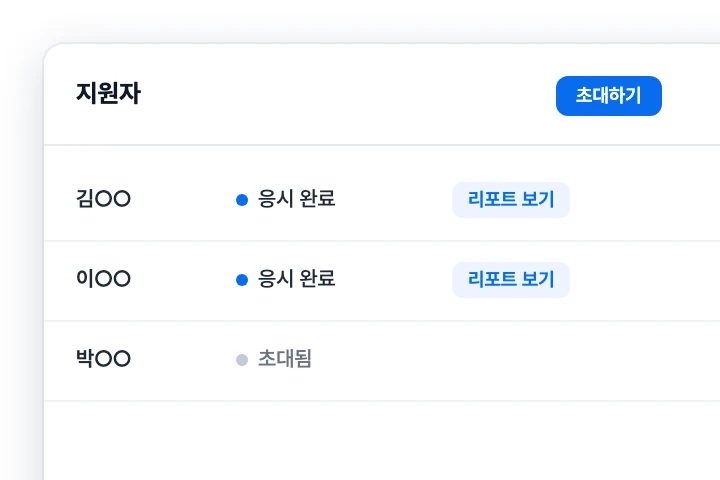
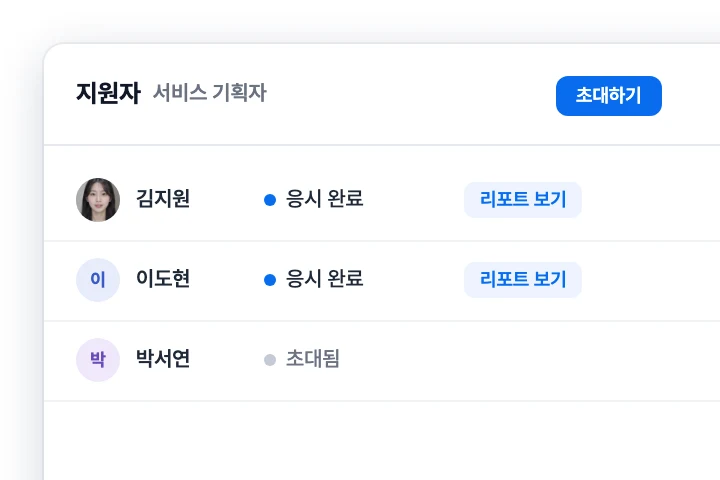
AI 역량검사 진행 방식 도식에 모션, 리포트 04 카드 동시 등장, STEP 03 이미지 교체, 가명·얼굴 채움
- MotionDiagram(옛 ReportDiagram)으로 모션 도식 7장 공용: AI 역량검사 과정 평가(단계가 1→4 차례로 켜지고 진행선·재생 막대가 함께),
  AI 인터뷰(질문·답 말풍선이 차례로, 해당 코드 줄 강조), 평가와 리포트(추천 원 그래프 → 점수 막대 → 근거). 화면에 들어오기 전 멈춤 규칙이 덮이던 순서도 바로잡음
- 리포트 04 강점·약점: 두 카드가 동시에 떠오르고 안쪽 줄이 함께 채워진 뒤 아이콘이 움직임
- 과제 만들기 STEP 03 '확인 후 게시': 채점 기준 화면 → 과제 확인·게시·공개 링크·메일 초대 화면(assessment-step-review 삭제)
- 얼굴 확인: 머리 위 여백 + 사람 모양으로 오려 회색 단색 바탕, 이력서·지원자 목록: ○○ 대신 가명(김지원·이도현·박서연, 누리커머스)과 얼굴(사진·이름 첫 글자)

diff --git a/components/motionDiagrams.ts b/components/motionDiagrams.ts
@@ -1,0 +1,14 @@
+// 모션 도식 7장(2026-11-26) — AI 면접 리포트 4종(인터뷰 요약·종합평가·역량평가·강점·약점)과 AI 역량검사 진행 방식 3장(과정 평가·AI 인터뷰·평가와 리포트).
+// 원본은 _docs/홈페이지 개편/도식/벡터_만들기_make-svg.mjs와 같은 모양이고, 움직일 요소에만 표시를 붙였다.
+// 다시 뽑기: _docs/홈페이지 개편/도식/모션도식_만들기_make-motion.py. 모션 스타일은 app/landing.css(.rd), 시작·멈춤은 components/MotionDiagram.tsx.
+export const MOTION_SVG = {
+  interview: "<svg xmlns=\"http://www.w3.org/2000/svg\" viewBox=\"0 0 1080 570\" aria-hidden=\"true\" focusable=\"false\">\n<rect x=\"0\" y=\"0\" width=\"1080\" height=\"570\" rx=\"24\" fill=\"#F4F8FE\"/>\n<g>\n<rect x=\"42\" y=\"126\" width=\"490\" height=\"320\" rx=\"28\" fill=\"#1E283F\"/>\n<circle cx=\"432\" cy=\"161\" r=\"6\" fill=\"#3A6FFF\"/>\n<text x=\"446\" y=\"167\" font-family=\"Pretendard-ExtraBold, Pretendard\" font-weight=\"800\" font-size=\"18\" letter-spacing=\"-0.36\" fill=\"#3A6FFF\">REC</text>\n<circle cx=\"286\" cy=\"286\" r=\"58\" fill=\"#FFFFFF\"/>\n<path d=\"M269,256 L269,316 L320,286 Z\" fill=\"#3A6FFF\"/>\n<rect x=\"78\" y=\"400\" width=\"150\" height=\"16\" rx=\"8\" fill=\"#B5BCC1\"/>\n</g>\n<g>\n<rect x=\"549\" y=\"127\" width=\"488\" height=\"318\" rx=\"27\" fill=\"#FFFFFF\" stroke=\"#E6E6E6\" stroke-width=\"2\"/>\n<text x=\"586\" y=\"222\" font-family=\"Pretendard-Bold, Pretendard\" font-weight=\"700\" font-size=\"22\" letter-spacing=\"-0.44\" fill=\"#3A6FFF\">인터뷰 요약</text>\n<rect class=\"rd-w\" style=\"animation-delay:0.0s\" x=\"586\" y=\"252\" width=\"412\" height=\"20\" rx=\"10\" fill=\"#E8E8E8\"/>\n<rect class=\"rd-w\" style=\"animation-delay:0.45s\" x=\"586\" y=\"292\" width=\"412\" height=\"20\" rx=\"10\" fill=\"#E8E8E8\"/>\n<rect class=\"rd-w\" style=\"animation-delay:0.9s\" x=\"586\" y=\"332\" width=\"412\" height=\"20\" rx=\"10\" fill=\"#E8E8E8\"/>\n<rect class=\"rd-w\" style=\"animation-delay:1.35s\" x=\"586\" y=\"372\" width=\"412\" height=\"20\" rx=\"10\" fill=\"#E8E8E8\"/>\n</g>\n</svg>",
+  grade: "<svg xmlns=\"http://www.w3.org/2000/svg\" viewBox=\"0 0 1080 570\" aria-hidden=\"true\" focusable=\"false\">\n<rect x=\"0\" y=\"0\" width=\"1080\" height=\"570\" rx=\"24\" fill=\"#F4F8FE\"/>\n<g>\n<circle cx=\"272\" cy=\"286\" r=\"135\" fill=\"none\" stroke=\"#E5EAF4\" stroke-width=\"38\"/>\n<circle cx=\"272\" cy=\"286\" r=\"154\" fill=\"none\" stroke=\"#CED3DC\" stroke-width=\"2\"/>\n<circle cx=\"272\" cy=\"286\" r=\"116\" fill=\"none\" stroke=\"#CED3DC\" stroke-width=\"2\"/>\n<path class=\"rd-arc\" pathLength=\"100\" d=\"M272,151 A135,135 0 1 1 162.78,206.65\" fill=\"none\" stroke=\"#3A6FFF\" stroke-width=\"38\"/>\n<text x=\"272\" y=\"297\" font-family=\"Pretendard-ExtraBold, Pretendard\" font-weight=\"800\" font-size=\"72\" letter-spacing=\"-1.44\" fill=\"#3A6FFF\" text-anchor=\"middle\">양호</text>\n<text x=\"272\" y=\"337\" font-family=\"Pretendard-SemiBold, Pretendard\" font-weight=\"600\" font-size=\"24\" letter-spacing=\"-0.48\" fill=\"#7A7C7F\" text-anchor=\"middle\">종합등급</text>\n</g>\n<g>\n<rect x=\"549\" y=\"127\" width=\"488\" height=\"318\" rx=\"27\" fill=\"#FFFFFF\" stroke=\"#E6E6E6\" stroke-width=\"2\"/>\n<text x=\"586\" y=\"184\" font-family=\"Pretendard-Bold, Pretendard\" font-weight=\"700\" font-size=\"20\" letter-spacing=\"-0.4\" fill=\"#7A7C7F\">직무 접합도</text>\n<rect x=\"587\" y=\"207\" width=\"410\" height=\"18\" rx=\"9\" fill=\"#E8E8E8\" stroke=\"#D1D1D1\" stroke-width=\"2\"/>\n<rect class=\"rd-bar\" style=\"animation-delay:0.35s\" x=\"587\" y=\"207\" width=\"336\" height=\"18\" rx=\"9\" fill=\"#3A6FFF\" stroke=\"#2F62F0\" stroke-width=\"2\"/>\n<text x=\"586\" y=\"274\" font-family=\"Pretendard-Bold, Pretendard\" font-weight=\"700\" font-size=\"20\" letter-spacing=\"-0.4\" fill=\"#7A7C7F\">안정성</text>\n<rect x=\"587\" y=\"297\" width=\"410\" height=\"18\" rx=\"9\" fill=\"#E8E8E8\" stroke=\"#D1D1D1\" stroke-width=\"2\"/>\n<rect class=\"rd-bar\" style=\"animation-delay:0.60s\" x=\"587\" y=\"297\" width=\"266\" height=\"18\" rx=\"9\" fill=\"#3A6FFF\" stroke=\"#2F62F0\" stroke-width=\"2\"/>\n<text x=\"586\" y=\"364\" font-family=\"Pretendard-Bold, Pretendard\" font-weight=\"700\" font-size=\"20\" letter-spacing=\"-0.4\" fill=\"#7A7C7F\">성장 가능성</text>\n<rect x=\"587\" y=\"387\" width=\"410\" height=\"18\" rx=\"9\" fill=\"#E8E8E8\" stroke=\"#D1D1D1\" stroke-width=\"2\"/>\n<rect class=\"rd-bar\" style=\"animation-delay:0.85s\" x=\"587\" y=\"387\" width=\"296\" height=\"18\" rx=\"9\" fill=\"#3A6FFF\" stroke=\"#2F62F0\" stroke-width=\"2\"/>\n</g>\n</svg>",
+  competency: "<svg xmlns=\"http://www.w3.org/2000/svg\" viewBox=\"0 0 1080 570\" aria-hidden=\"true\" focusable=\"false\">\n<rect x=\"0\" y=\"0\" width=\"1080\" height=\"570\" rx=\"24\" fill=\"#F4F8FE\"/>\n<g>\n<polygon points=\"527,105 685.48,196.5 685.48,379.5 527,471 368.52,379.5 368.52,196.5\" fill=\"#FFFFFF\" stroke=\"#E6E6E6\" stroke-width=\"2\" stroke-linejoin=\"round\"/>\n<polygon points=\"527,143.43 652.2,215.71 652.2,360.29 527,432.57 401.8,360.29 401.8,215.71\" fill=\"#ECF2FF\"/>\n<polygon points=\"527,166 632.66,227 632.66,349 527,410 421.34,349 421.34,227\" fill=\"none\" stroke=\"#E6E6E6\" stroke-width=\"2\" stroke-linejoin=\"round\"/>\n<polygon points=\"527,227 579.83,257.5 579.83,318.5 527,349 474.17,318.5 474.17,257.5\" fill=\"none\" stroke=\"#E6E6E6\" stroke-width=\"2\" stroke-linejoin=\"round\"/>\n<line x1=\"527\" y1=\"288\" x2=\"527\" y2=\"105\" stroke=\"#E6E6E6\" stroke-width=\"2\"/>\n<line x1=\"527\" y1=\"288\" x2=\"685.48\" y2=\"196.5\" stroke=\"#E6E6E6\" stroke-width=\"2\"/>\n<line x1=\"527\" y1=\"288\" x2=\"685.48\" y2=\"379.5\" stroke=\"#E6E6E6\" stroke-width=\"2\"/>\n<line x1=\"527\" y1=\"288\" x2=\"527\" y2=\"471\" stroke=\"#E6E6E6\" stroke-width=\"2\"/>\n<line x1=\"527\" y1=\"288\" x2=\"368.52\" y2=\"379.5\" stroke=\"#E6E6E6\" stroke-width=\"2\"/>\n<line x1=\"527\" y1=\"288\" x2=\"368.52\" y2=\"196.5\" stroke=\"#E6E6E6\" stroke-width=\"2\"/>\n<polygon points=\"527,143.43 652.2,215.71 652.2,360.29 527,432.57 401.8,360.29 401.8,215.71\" fill=\"none\" stroke=\"#C0D5FF\" stroke-width=\"5\" stroke-linecap=\"round\" stroke-linejoin=\"round\" stroke-dasharray=\"0 10\"/>\n<polygon points=\"527,203.82 620.5,234.02 598.32,329.17 527,421.59 449.34,332.84 422.4,227.61\" fill=\"#3A6FFF\" fill-opacity=\"0.55\" stroke=\"#3A6FFF\" stroke-width=\"6\" stroke-linejoin=\"miter\"><animate attributeName=\"points\" dur=\"6s\" begin=\"indefinite\" repeatCount=\"indefinite\" values=\"527,203.82 620.5,234.02 598.32,329.17 527,421.59 449.34,332.84 422.4,227.61;527,178.2 606.24,242.25 625.26,344.73 527,394.14 422.4,348.39 441.42,238.59;527,192.84 637.94,223.95 614.17,338.32 527,405.12 457.27,328.26 414.48,223.03;527,203.82 620.5,234.02 598.32,329.17 527,421.59 449.34,332.84 422.4,227.61\" keyTimes=\"0;0.33;0.66;1\" calcMode=\"spline\" keySplines=\"0.4 0 0.2 1;0.4 0 0.2 1;0.4 0 0.2 1\"/></polygon>\n</g>\n<g>\n<text x=\"528\" y=\"89\" font-family=\"Pretendard-Bold, Pretendard\" font-weight=\"700\" font-size=\"22\" letter-spacing=\"-0.44\" fill=\"#7A7C7F\" text-anchor=\"middle\">의사소통</text>\n<text x=\"734\" y=\"179\" font-family=\"Pretendard-Bold, Pretendard\" font-weight=\"700\" font-size=\"22\" letter-spacing=\"-0.44\" fill=\"#7A7C7F\" text-anchor=\"middle\">문제해결</text>\n<text x=\"733\" y=\"389\" font-family=\"Pretendard-Bold, Pretendard\" font-weight=\"700\" font-size=\"22\" letter-spacing=\"-0.44\" fill=\"#7A7C7F\" text-anchor=\"middle\">태도</text>\n<text x=\"526\" y=\"495\" font-family=\"Pretendard-Bold, Pretendard\" font-weight=\"700\" font-size=\"22\" letter-spacing=\"-0.44\" fill=\"#7A7C7F\" text-anchor=\"middle\">직무 지식</text>\n<text x=\"330\" y=\"389\" font-family=\"Pretendard-Bold, Pretendard\" font-weight=\"700\" font-size=\"22\" letter-spacing=\"-0.44\" fill=\"#7A7C7F\" text-anchor=\"middle\">협업</text>\n<text x=\"332\" y=\"187\" font-family=\"Pretendard-Bold, Pretendard\" font-weight=\"700\" font-size=\"22\" letter-spacing=\"-0.44\" fill=\"#7A7C7F\" text-anchor=\"middle\">성실성</text>\n</g>\n<g>\n<text x=\"84\" y=\"86\" font-family=\"Pretendard-Bold, Pretendard\" font-weight=\"700\" font-size=\"16\" letter-spacing=\"-0.32\" fill=\"#797979\">평균</text>\n<polygon points=\"134,71.5 143.09,76.75 143.09,87.25 134,92.5 124.91,87.25 124.91,76.75\" fill=\"#FFFFFF\" stroke=\"#C0D5FF\" stroke-width=\"1.6\" stroke-dasharray=\"2.5 2\"/>\n<text x=\"172\" y=\"86\" font-family=\"Pretendard-Bold, Pretendard\" font-weight=\"700\" font-size=\"16\" letter-spacing=\"-0.32\" fill=\"#797979\">지원자</text>\n<polygon points=\"234,71.5 243.09,76.75 243.09,87.25 234,92.5 224.91,87.25 224.91,76.75\" fill=\"#8AA8F6\" stroke=\"#3A6FFF\" stroke-width=\"2\"/>\n</g>\n</svg>",
+  strength: "<svg xmlns=\"http://www.w3.org/2000/svg\" viewBox=\"0 0 1080 570\" aria-hidden=\"true\" focusable=\"false\">\n<rect x=\"0\" y=\"0\" width=\"1080\" height=\"570\" rx=\"24\" fill=\"#F4F8FE\"/>\n<g class=\"rd-card\">\n<rect x=\"43\" y=\"127\" width=\"488\" height=\"318\" rx=\"27\" fill=\"#FFFFFF\" stroke=\"#E6E6E6\" stroke-width=\"2\"/>\n<g transform=\"translate(81 197) scale(1.1667)\" fill=\"none\" stroke=\"#9CB7FF\" stroke-width=\"2.2\" stroke-linecap=\"round\" stroke-linejoin=\"round\"><g class=\"rd-up\"><path d=\"M7 10v12\"/><path d=\"M15 5.88 14 10h5.83a2 2 0 0 1 1.92 2.56l-2.33 8A2 2 0 0 1 17.5 22H4a2 2 0 0 1-2-2v-8a2 2 0 0 1 2-2h2.76a2 2 0 0 0 1.79-1.11L12 2a3.13 3.13 0 0 1 3 3.88Z\"/></g></g>\n<text x=\"119\" y=\"217\" font-family=\"Pretendard-Bold, Pretendard\" font-weight=\"700\" font-size=\"20\" letter-spacing=\"-0.4\" fill=\"#9CB7FF\">강점</text>\n<rect class=\"rd-w\" style=\"animation-delay:0.5s\" x=\"80\" y=\"250\" width=\"412\" height=\"20\" rx=\"10\" fill=\"#D8E2FF\"/>\n<rect class=\"rd-w\" style=\"animation-delay:0.7s\" x=\"80\" y=\"292\" width=\"412\" height=\"20\" rx=\"10\" fill=\"#D8E2FF\"/>\n<rect class=\"rd-w\" style=\"animation-delay:0.9s\" x=\"80\" y=\"334\" width=\"412\" height=\"20\" rx=\"10\" fill=\"#D8E2FF\"/>\n<rect class=\"rd-w\" style=\"animation-delay:1.1s\" x=\"80\" y=\"376\" width=\"412\" height=\"20\" rx=\"10\" fill=\"#D8E2FF\"/>\n</g>\n<g class=\"rd-card\">\n<rect x=\"549\" y=\"127\" width=\"488\" height=\"318\" rx=\"27\" fill=\"#FFFFFF\" stroke=\"#E6E6E6\" stroke-width=\"2\"/>\n<g transform=\"translate(587 201) scale(1.1667)\" fill=\"none\" stroke=\"#F38F8A\" stroke-width=\"2.2\" stroke-linecap=\"round\" stroke-linejoin=\"round\"><g class=\"rd-no\"><path d=\"M2.586 16.726A2 2 0 0 1 2 15.312V8.688a2 2 0 0 1 .586-1.414l4.688-4.688A2 2 0 0 1 8.688 2h6.624a2 2 0 0 1 1.414.586l4.688 4.688A2 2 0 0 1 22 8.688v6.624a2 2 0 0 1-.586 1.414l-4.688 4.688a2 2 0 0 1-1.414.586H8.688a2 2 0 0 1-1.414-.586z\"/><path d=\"m15 9-6 6\"/><path d=\"m9 9 6 6\"/></g></g>\n<text x=\"625\" y=\"221\" font-family=\"Pretendard-Bold, Pretendard\" font-weight=\"700\" font-size=\"20\" letter-spacing=\"-0.4\" fill=\"#F38F8A\">약점</text>\n<rect class=\"rd-w\" style=\"animation-delay:0.5s\" x=\"586\" y=\"248\" width=\"412\" height=\"20\" rx=\"10\" fill=\"#FAD2D0\"/>\n<rect class=\"rd-w\" style=\"animation-delay:0.7s\" x=\"586\" y=\"290\" width=\"412\" height=\"20\" rx=\"10\" fill=\"#FAD2D0\"/>\n<rect class=\"rd-w\" style=\"animation-delay:0.9s\" x=\"586\" y=\"332\" width=\"412\" height=\"20\" rx=\"10\" fill=\"#FAD2D0\"/>\n<rect class=\"rd-w\" style=\"animation-delay:1.1s\" x=\"586\" y=\"374\" width=\"412\" height=\"20\" rx=\"10\" fill=\"#FAD2D0\"/>\n</g>\n</svg>",
+  process: "<svg xmlns=\"http://www.w3.org/2000/svg\" viewBox=\"0 0 1080 570\" aria-hidden=\"true\" focusable=\"false\">\n<rect x=\"0\" y=\"0\" width=\"1080\" height=\"570\" rx=\"24\" fill=\"#F4F8FE\"/>\n<g>\n<rect x=\"102.5\" y=\"72.5\" width=\"875\" height=\"425\" rx=\"30\" fill=\"#1E283F\"/>\n<circle cx=\"137.5\" cy=\"102.5\" r=\"7.5\" fill=\"#3A4766\"/>\n<circle cx=\"162.5\" cy=\"102.5\" r=\"7.5\" fill=\"#3A4766\"/>\n<circle cx=\"187.5\" cy=\"102.5\" r=\"7.5\" fill=\"#3A4766\"/>\n<text x=\"220\" y=\"109\" font-family=\"Pretendard-Bold, Pretendard\" font-weight=\"700\" font-size=\"17.5\" letter-spacing=\"-0.35\" fill=\"#C9D2E8\">작업 기록</text>\n<rect x=\"102.5\" y=\"131\" width=\"875\" height=\"1.25\" fill=\"#2C3753\"/>\n</g>\n<g>\n<rect x=\"232.5\" y=\"234.5\" width=\"615\" height=\"3\" rx=\"1.5\" fill=\"#3A4766\"/>\n<rect class=\"pa-line\" x=\"232.5\" y=\"234.5\" width=\"615\" height=\"3\" rx=\"1.5\" fill=\"#3A6FFF\"/>\n<circle cx=\"232.5\" cy=\"236\" r=\"45\" fill=\"#26355F\" stroke=\"#3A4766\" stroke-width=\"2\"/>\n<g transform=\"translate(214.5 218) scale(1.5)\" fill=\"none\" stroke=\"#8AA8F6\" stroke-width=\"1.6\" stroke-linecap=\"round\" stroke-linejoin=\"round\"><path d=\"M21 15a2 2 0 0 1-2 2H7l-4 4V5a2 2 0 0 1 2-2h14a2 2 0 0 1 2 2z\"/></g>\n<text x=\"232.5\" y=\"323\" font-family=\"Pretendard-Bold, Pretendard\" font-weight=\"700\" font-size=\"20\" letter-spacing=\"-0.4\" fill=\"#E8EDF8\" text-anchor=\"middle\">AI에게 지시</text>\n<rect x=\"196.5\" y=\"340\" width=\"72\" height=\"30\" rx=\"15\" fill=\"#2C3753\"/>\n<text x=\"232.5\" y=\"360\" font-family=\"Pretendard-ExtraBold, Pretendard\" font-weight=\"800\" font-size=\"15\" letter-spacing=\"-0.3\" fill=\"#AFC0E8\" text-anchor=\"middle\">지원자</text>\n<circle cx=\"437.5\" cy=\"236\" r=\"45\" fill=\"#26355F\" stroke=\"#3A4766\" stroke-width=\"2\"/>\n<g transform=\"translate(419.5 218) scale(1.5)\" fill=\"none\" stroke=\"#8AA8F6\" stroke-width=\"1.6\" stroke-linecap=\"round\" stroke-linejoin=\"round\"><path d=\"M9.937 15.5A2 2 0 0 0 8.5 14.063l-6.135-1.582a.5.5 0 0 1 0-.962L8.5 9.936A2 2 0 0 0 9.937 8.5l1.582-6.135a.5.5 0 0 1 .963 0L14.063 8.5A2 2 0 0 0 15.5 9.937l6.135 1.581a.5.5 0 0 1 0 .964L15.5 14.063a2 2 0 0 0-1.437 1.437l-1.582 6.135a.5.5 0 0 1-.963 0z\"/></g>\n<text x=\"437.5\" y=\"323\" font-family=\"Pretendard-Bold, Pretendard\" font-weight=\"700\" font-size=\"20\" letter-spacing=\"-0.4\" fill=\"#E8EDF8\" text-anchor=\"middle\">AI가 코드 변경</text>\n<rect x=\"401.5\" y=\"340\" width=\"72\" height=\"30\" rx=\"15\" fill=\"#2C3753\"/>\n<text x=\"437.5\" y=\"360\" font-family=\"Pretendard-ExtraBold, Pretendard\" font-weight=\"800\" font-size=\"15\" letter-spacing=\"-0.3\" fill=\"#AFC0E8\" text-anchor=\"middle\">AI</text>\n<circle cx=\"642.5\" cy=\"236\" r=\"45\" fill=\"#26355F\" stroke=\"#3A4766\" stroke-width=\"2\"/>\n<g transform=\"translate(624.5 218) scale(1.5)\" fill=\"none\" stroke=\"#8AA8F6\" stroke-width=\"1.6\" stroke-linecap=\"round\" stroke-linejoin=\"round\"><path d=\"M21.174 6.812a1 1 0 0 0-3.986-3.987L3.842 16.174a2 2 0 0 0-.5.83l-1.321 4.352a.5.5 0 0 0 .623.622l4.353-1.32a2 2 0 0 0 .83-.497z\"/></g>\n<text x=\"642.5\" y=\"323\" font-family=\"Pretendard-Bold, Pretendard\" font-weight=\"700\" font-size=\"20\" letter-spacing=\"-0.4\" fill=\"#E8EDF8\" text-anchor=\"middle\">직접 수정</text>\n<rect x=\"606.5\" y=\"340\" width=\"72\" height=\"30\" rx=\"15\" fill=\"#2C3753\"/>\n<text x=\"642.5\" y=\"360\" font-family=\"Pretendard-ExtraBold, Pretendard\" font-weight=\"800\" font-size=\"15\" letter-spacing=\"-0.3\" fill=\"#AFC0E8\" text-anchor=\"middle\">지원자</text>\n<circle cx=\"847.5\" cy=\"236\" r=\"45\" fill=\"#26355F\" stroke=\"#3A4766\" stroke-width=\"2\"/>\n<g transform=\"translate(829.5 218) scale(1.5)\" fill=\"none\" stroke=\"#8AA8F6\" stroke-width=\"1.6\" stroke-linecap=\"round\" stroke-linejoin=\"round\"><circle cx=\"12\" cy=\"12\" r=\"10\"/><path d=\"m9 12 2 2 4-4\"/></g>\n<text x=\"847.5\" y=\"323\" font-family=\"Pretendard-Bold, Pretendard\" font-weight=\"700\" font-size=\"20\" letter-spacing=\"-0.4\" fill=\"#E8EDF8\" text-anchor=\"middle\">테스트 실행</text>\n<rect x=\"811.5\" y=\"340\" width=\"72\" height=\"30\" rx=\"15\" fill=\"#2C3753\"/>\n<text x=\"847.5\" y=\"360\" font-family=\"Pretendard-ExtraBold, Pretendard\" font-weight=\"800\" font-size=\"15\" letter-spacing=\"-0.3\" fill=\"#AFC0E8\" text-anchor=\"middle\">지원자</text>\n<g class=\"pa-on pa-k1\" style=\"animation-delay:0s\"><circle cx=\"232.5\" cy=\"236\" r=\"60\" fill=\"#3A6FFF\" fill-opacity=\"0.18\"/><circle cx=\"232.5\" cy=\"236\" r=\"46\" fill=\"#3A6FFF\"/><g transform=\"translate(214.5 218) scale(1.5)\" fill=\"none\" stroke=\"#FFFFFF\" stroke-width=\"1.6\" stroke-linecap=\"round\" stroke-linejoin=\"round\"><path d=\"M21 15a2 2 0 0 1-2 2H7l-4 4V5a2 2 0 0 1 2-2h14a2 2 0 0 1 2 2z\"/></g><rect x=\"132.5\" y=\"300\" width=\"200\" height=\"30\" fill=\"#1E283F\"/><text x=\"232.5\" y=\"323\" font-family=\"Pretendard-Bold, Pretendard\" font-weight=\"700\" font-size=\"20\" letter-spacing=\"-0.4\" fill=\"#9DB6FF\" text-anchor=\"middle\">AI에게 지시</text><rect x=\"196.5\" y=\"340\" width=\"72\" height=\"30\" rx=\"15\" fill=\"#3A6FFF\"/><text x=\"232.5\" y=\"360\" font-family=\"Pretendard-ExtraBold, Pretendard\" font-weight=\"800\" font-size=\"15\" letter-spacing=\"-0.3\" fill=\"#FFFFFF\" text-anchor=\"middle\">지원자</text></g>\n<g class=\"pa-on pa-k2\" style=\"animation-delay:2s\"><circle cx=\"437.5\" cy=\"236\" r=\"60\" fill=\"#3A6FFF\" fill-opacity=\"0.18\"/><circle cx=\"437.5\" cy=\"236\" r=\"46\" fill=\"#3A6FFF\"/><g transform=\"translate(419.5 218) scale(1.5)\" fill=\"none\" stroke=\"#FFFFFF\" stroke-width=\"1.6\" stroke-linecap=\"round\" stroke-linejoin=\"round\"><path d=\"M9.937 15.5A2 2 0 0 0 8.5 14.063l-6.135-1.582a.5.5 0 0 1 0-.962L8.5 9.936A2 2 0 0 0 9.937 8.5l1.582-6.135a.5.5 0 0 1 .963 0L14.063 8.5A2 2 0 0 0 15.5 9.937l6.135 1.581a.5.5 0 0 1 0 .964L15.5 14.063a2 2 0 0 0-1.437 1.437l-1.582 6.135a.5.5 0 0 1-.963 0z\"/></g><rect x=\"337.5\" y=\"300\" width=\"200\" height=\"30\" fill=\"#1E283F\"/><text x=\"437.5\" y=\"323\" font-family=\"Pretendard-Bold, Pretendard\" font-weight=\"700\" font-size=\"20\" letter-spacing=\"-0.4\" fill=\"#9DB6FF\" text-anchor=\"middle\">AI가 코드 변경</text><rect x=\"401.5\" y=\"340\" width=\"72\" height=\"30\" rx=\"15\" fill=\"#3A6FFF\"/><text x=\"437.5\" y=\"360\" font-family=\"Pretendard-ExtraBold, Pretendard\" font-weight=\"800\" font-size=\"15\" letter-spacing=\"-0.3\" fill=\"#FFFFFF\" text-anchor=\"middle\">AI</text></g>\n<g class=\"pa-on pa-k3\" style=\"animation-delay:4s\"><circle cx=\"642.5\" cy=\"236\" r=\"60\" fill=\"#3A6FFF\" fill-opacity=\"0.18\"/><circle cx=\"642.5\" cy=\"236\" r=\"46\" fill=\"#3A6FFF\"/><g transform=\"translate(624.5 218) scale(1.5)\" fill=\"none\" stroke=\"#FFFFFF\" stroke-width=\"1.6\" stroke-linecap=\"round\" stroke-linejoin=\"round\"><path d=\"M21.174 6.812a1 1 0 0 0-3.986-3.987L3.842 16.174a2 2 0 0 0-.5.83l-1.321 4.352a.5.5 0 0 0 .623.622l4.353-1.32a2 2 0 0 0 .83-.497z\"/></g><rect x=\"542.5\" y=\"300\" width=\"200\" height=\"30\" fill=\"#1E283F\"/><text x=\"642.5\" y=\"323\" font-family=\"Pretendard-Bold, Pretendard\" font-weight=\"700\" font-size=\"20\" letter-spacing=\"-0.4\" fill=\"#9DB6FF\" text-anchor=\"middle\">직접 수정</text><rect x=\"606.5\" y=\"340\" width=\"72\" height=\"30\" rx=\"15\" fill=\"#3A6FFF\"/><text x=\"642.5\" y=\"360\" font-family=\"Pretendard-ExtraBold, Pretendard\" font-weight=\"800\" font-size=\"15\" letter-spacing=\"-0.3\" fill=\"#FFFFFF\" text-anchor=\"middle\">지원자</text></g>\n<g class=\"pa-on pa-k4\" style=\"animation-delay:6s\"><circle cx=\"847.5\" cy=\"236\" r=\"60\" fill=\"#3A6FFF\" fill-opacity=\"0.18\"/><circle cx=\"847.5\" cy=\"236\" r=\"46\" fill=\"#3A6FFF\"/><g transform=\"translate(829.5 218) scale(1.5)\" fill=\"none\" stroke=\"#FFFFFF\" stroke-width=\"1.6\" stroke-linecap=\"round\" stroke-linejoin=\"round\"><circle cx=\"12\" cy=\"12\" r=\"10\"/><path d=\"m9 12 2 2 4-4\"/></g><rect x=\"747.5\" y=\"300\" width=\"200\" height=\"30\" fill=\"#1E283F\"/><text x=\"847.5\" y=\"323\" font-family=\"Pretendard-Bold, Pretendard\" font-weight=\"700\" font-size=\"20\" letter-spacing=\"-0.4\" fill=\"#9DB6FF\" text-anchor=\"middle\">테스트 실행</text><rect x=\"811.5\" y=\"340\" width=\"72\" height=\"30\" rx=\"15\" fill=\"#3A6FFF\"/><text x=\"847.5\" y=\"360\" font-family=\"Pretendard-ExtraBold, Pretendard\" font-weight=\"800\" font-size=\"15\" letter-spacing=\"-0.3\" fill=\"#FFFFFF\" text-anchor=\"middle\">지원자</text></g>\n</g>\n<g>\n<text x=\"190\" y=\"413\" font-family=\"Pretendard-ExtraBold, Pretendard\" font-weight=\"800\" font-size=\"15\" letter-spacing=\"-0.3\" fill=\"#8AA8F6\">작업 리플레이</text>\n<circle cx=\"150\" cy=\"444\" r=\"20\" fill=\"#3A6FFF\"/>\n<path d=\"M144,434 L144,454 L160,444 Z\" fill=\"#FFFFFF\"/>\n<rect x=\"190\" y=\"440\" width=\"742\" height=\"8\" rx=\"4\" fill=\"#2C3753\"/>\n<rect class=\"pa-bar\" x=\"190\" y=\"440\" width=\"657.5\" height=\"8\" rx=\"4\" fill=\"#3A6FFF\"/>\n<circle cx=\"232.5\" cy=\"444\" r=\"8\" fill=\"#3A4766\"/>\n<circle cx=\"437.5\" cy=\"444\" r=\"8\" fill=\"#3A4766\"/>\n<circle cx=\"642.5\" cy=\"444\" r=\"8\" fill=\"#3A4766\"/>\n<circle cx=\"847.5\" cy=\"444\" r=\"8\" fill=\"#3A4766\"/>\n<circle class=\"pa-d1\" cx=\"232.5\" cy=\"444\" r=\"8\" fill=\"#3A6FFF\"/><circle class=\"pa-d2\" cx=\"437.5\" cy=\"444\" r=\"8\" fill=\"#3A6FFF\"/><circle class=\"pa-d3\" cx=\"642.5\" cy=\"444\" r=\"8\" fill=\"#3A6FFF\"/><circle class=\"pa-d4\" cx=\"847.5\" cy=\"444\" r=\"8\" fill=\"#3A6FFF\"/></g>\n</svg>",
+  debrief: "<svg xmlns=\"http://www.w3.org/2000/svg\" viewBox=\"0 0 1080 570\" aria-hidden=\"true\" focusable=\"false\">\n<rect x=\"0\" y=\"0\" width=\"1080\" height=\"570\" rx=\"24\" fill=\"#F4F8FE\"/>\n<g>\n<rect x=\"42\" y=\"105\" width=\"490\" height=\"360\" rx=\"28\" fill=\"#1E283F\"/>\n<text x=\"76\" y=\"145\" font-family=\"Pretendard-Bold, Pretendard\" font-weight=\"700\" font-size=\"16\" letter-spacing=\"-0.32\" fill=\"#C9D2E8\">task.ts</text>\n<rect x=\"76\" y=\"171\" width=\"18\" height=\"10\" rx=\"5\" fill=\"#3A4766\"/>\n<rect x=\"114\" y=\"170\" width=\"48\" height=\"12\" rx=\"6\" fill=\"#3A6FFF\"/>\n<rect x=\"174\" y=\"170\" width=\"120\" height=\"12\" rx=\"6\" fill=\"#8AA8F6\"/>\n<rect x=\"76\" y=\"209\" width=\"18\" height=\"10\" rx=\"5\" fill=\"#3A4766\"/>\n<rect x=\"138\" y=\"208\" width=\"70\" height=\"12\" rx=\"6\" fill=\"#C9D2E8\"/>\n<rect x=\"220\" y=\"208\" width=\"52\" height=\"12\" rx=\"6\" fill=\"#5B6785\"/>\n<rect x=\"76\" y=\"247\" width=\"18\" height=\"10\" rx=\"5\" fill=\"#3A4766\"/>\n<rect x=\"138\" y=\"246\" width=\"150\" height=\"12\" rx=\"6\" fill=\"#8AA8F6\"/>\n<rect class=\"db-hl\" x=\"42\" y=\"273\" width=\"490\" height=\"34\" fill=\"#26355F\"/>\n<rect x=\"42\" y=\"273\" width=\"4\" height=\"34\" fill=\"#3A6FFF\"/>\n<rect x=\"76\" y=\"285\" width=\"18\" height=\"10\" rx=\"5\" fill=\"#3A6FFF\"/>\n<rect x=\"162\" y=\"284\" width=\"52\" height=\"12\" rx=\"6\" fill=\"#3A6FFF\"/>\n<rect x=\"226\" y=\"284\" width=\"128\" height=\"12\" rx=\"6\" fill=\"#8AA8F6\"/>\n<rect x=\"366\" y=\"284\" width=\"52\" height=\"12\" rx=\"6\" fill=\"#C9D2E8\"/>\n<rect x=\"76\" y=\"323\" width=\"18\" height=\"10\" rx=\"5\" fill=\"#3A4766\"/>\n<rect x=\"138\" y=\"322\" width=\"104\" height=\"12\" rx=\"6\" fill=\"#C9D2E8\"/>\n<rect x=\"254\" y=\"322\" width=\"44\" height=\"12\" rx=\"6\" fill=\"#5B6785\"/>\n<rect x=\"76\" y=\"361\" width=\"18\" height=\"10\" rx=\"5\" fill=\"#3A4766\"/>\n<rect x=\"138\" y=\"360\" width=\"76\" height=\"12\" rx=\"6\" fill=\"#8AA8F6\"/>\n<rect x=\"76\" y=\"399\" width=\"18\" height=\"10\" rx=\"5\" fill=\"#3A4766\"/>\n<rect x=\"114\" y=\"398\" width=\"32\" height=\"12\" rx=\"6\" fill=\"#5B6785\"/>\n</g>\n<g>\n<rect x=\"549\" y=\"106\" width=\"488\" height=\"358\" rx=\"27\" fill=\"#FFFFFF\" stroke=\"#E6E6E6\" stroke-width=\"2\"/>\n<text x=\"586\" y=\"165\" font-family=\"Pretendard-Bold, Pretendard\" font-weight=\"700\" font-size=\"24\" letter-spacing=\"-0.48\" fill=\"#3A6FFF\">AI 인터뷰</text>\n<g class=\"db-b1\"><path d=\"M604,190 L579,190 Q577,190 579,192 Q584,199 587,208 Z\" fill=\"#3A6FFF\"/>\n<rect x=\"586\" y=\"190\" width=\"320\" height=\"50\" rx=\"22\" fill=\"#3A6FFF\"/></g>\n<g class=\"db-b2\"><path d=\"M982,252 L1007,252 Q1009,252 1007,254 Q1002,261 999,270 Z\" fill=\"#C3D3FF\"/>\n<rect x=\"727\" y=\"252\" width=\"273\" height=\"50\" rx=\"22\" fill=\"#C3D3FF\"/></g>\n<g class=\"db-b3\"><path d=\"M604,314 L579,314 Q577,314 579,316 Q584,323 587,332 Z\" fill=\"#3A6FFF\"/>\n<rect x=\"586\" y=\"314\" width=\"270\" height=\"50\" rx=\"22\" fill=\"#3A6FFF\"/></g>\n<g class=\"db-b4\"><path d=\"M982,376 L1007,376 Q1009,376 1007,378 Q1002,385 999,394 Z\" fill=\"#C3D3FF\"/>\n<rect x=\"795\" y=\"376\" width=\"205\" height=\"50\" rx=\"22\" fill=\"#C3D3FF\"/></g>\n</g>\n</svg>",
+  scorecard: "<svg xmlns=\"http://www.w3.org/2000/svg\" viewBox=\"0 0 1080 570\" aria-hidden=\"true\" focusable=\"false\">\n<rect x=\"0\" y=\"0\" width=\"1080\" height=\"570\" rx=\"24\" fill=\"#F4F8FE\"/>\n<g>\n<rect x=\"102.5\" y=\"72.5\" width=\"875\" height=\"425\" rx=\"30\" fill=\"#1E283F\"/>\n<circle cx=\"137.5\" cy=\"102.5\" r=\"7.5\" fill=\"#3A4766\"/>\n<circle cx=\"162.5\" cy=\"102.5\" r=\"7.5\" fill=\"#3A4766\"/>\n<circle cx=\"187.5\" cy=\"102.5\" r=\"7.5\" fill=\"#3A4766\"/>\n<text x=\"220\" y=\"109\" font-family=\"Pretendard-Bold, Pretendard\" font-weight=\"700\" font-size=\"17.5\" letter-spacing=\"-0.35\" fill=\"#C9D2E8\">AI 역량검사 리포트</text>\n<rect x=\"102.5\" y=\"131\" width=\"875\" height=\"1.25\" fill=\"#2C3753\"/>\n</g>\n<g>\n<circle cx=\"291\" cy=\"314\" r=\"105\" fill=\"none\" stroke=\"#2C3753\" stroke-width=\"30\"/>\n<path class=\"sc-arc\" pathLength=\"100\" d=\"M291,209 A105,105 0 1 1 187.86,294.32\" fill=\"none\" stroke=\"#3A6FFF\" stroke-width=\"30\"/>\n<text x=\"291\" y=\"322\" font-family=\"Pretendard-ExtraBold, Pretendard\" font-weight=\"800\" font-size=\"56\" letter-spacing=\"-1.12\" fill=\"#FFFFFF\" text-anchor=\"middle\">추천</text>\n<text x=\"291\" y=\"358\" font-family=\"Pretendard-SemiBold, Pretendard\" font-weight=\"600\" font-size=\"19\" letter-spacing=\"-0.38\" fill=\"#AFC0E8\" text-anchor=\"middle\">AI 추천</text>\n</g>\n<g transform=\"translate(500 160) scale(0.86) translate(-548 -105)\">\n<rect x=\"549\" y=\"106\" width=\"488\" height=\"358\" rx=\"27\" fill=\"#FFFFFF\" stroke=\"#E6E6E6\" stroke-width=\"2\"/>\n<text x=\"586\" y=\"165\" font-family=\"Pretendard-Bold, Pretendard\" font-weight=\"700\" font-size=\"24\" letter-spacing=\"-0.48\" fill=\"#3A6FFF\">항목별 점수</text>\n<text x=\"586\" y=\"217\" font-family=\"Pretendard-Bold, Pretendard\" font-weight=\"700\" font-size=\"20\" letter-spacing=\"-0.4\" fill=\"#3A4766\">문제 이해</text>\n<rect x=\"694\" y=\"202\" width=\"220\" height=\"16\" rx=\"8\" fill=\"#3A6FFF\" fill-opacity=\"0.12\"/>\n<rect class=\"sc-bar\" style=\"animation-delay:0.5s\" x=\"694\" y=\"202\" width=\"176\" height=\"16\" rx=\"8\" fill=\"#3A6FFF\"/>\n<g class=\"sc-ev\" style=\"animation-delay:1.3s\"><rect x=\"936\" y=\"194\" width=\"64\" height=\"32\" rx=\"16\" fill=\"#3A6FFF\" fill-opacity=\"0.12\"/>\n<text x=\"968\" y=\"215\" font-family=\"Pretendard-ExtraBold, Pretendard\" font-weight=\"800\" font-size=\"16\" letter-spacing=\"-0.32\" fill=\"#3A6FFF\" text-anchor=\"middle\">근거</text></g>\n<rect class=\"sc-ev\" style=\"animation-delay:2s\" x=\"694\" y=\"238\" width=\"4\" height=\"56\" rx=\"2\" fill=\"#3A6FFF\" fill-opacity=\"0.3\"/>\n<rect class=\"sc-evl\" style=\"animation-delay:2.2s\" x=\"710\" y=\"242\" width=\"204\" height=\"14\" rx=\"7\" fill=\"#3A6FFF\" fill-opacity=\"0.3\"/>\n<rect class=\"sc-evl\" style=\"animation-delay:2.4s\" x=\"710\" y=\"268\" width=\"140\" height=\"14\" rx=\"7\" fill=\"#3A6FFF\" fill-opacity=\"0.3\"/>\n<text x=\"586\" y=\"339\" font-family=\"Pretendard-Bold, Pretendard\" font-weight=\"700\" font-size=\"20\" letter-spacing=\"-0.4\" fill=\"#3A4766\">AI 활용</text>\n<rect x=\"694\" y=\"324\" width=\"220\" height=\"16\" rx=\"8\" fill=\"#3A6FFF\" fill-opacity=\"0.12\"/>\n<rect class=\"sc-bar\" style=\"animation-delay:0.8s\" x=\"694\" y=\"324\" width=\"140\" height=\"16\" rx=\"8\" fill=\"#3A6FFF\"/>\n<g class=\"sc-ev\" style=\"animation-delay:1.6s\"><rect x=\"936\" y=\"316\" width=\"64\" height=\"32\" rx=\"16\" fill=\"#3A6FFF\" fill-opacity=\"0.12\"/>\n<text x=\"968\" y=\"337\" font-family=\"Pretendard-ExtraBold, Pretendard\" font-weight=\"800\" font-size=\"16\" letter-spacing=\"-0.32\" fill=\"#3A6FFF\" text-anchor=\"middle\">근거</text></g>\n<text x=\"586\" y=\"415\" font-family=\"Pretendard-Bold, Pretendard\" font-weight=\"700\" font-size=\"20\" letter-spacing=\"-0.4\" fill=\"#3A4766\">결과 검증</text>\n<rect x=\"694\" y=\"400\" width=\"220\" height=\"16\" rx=\"8\" fill=\"#3A6FFF\" fill-opacity=\"0.12\"/>\n<rect class=\"sc-bar\" style=\"animation-delay:1.1s\" x=\"694\" y=\"400\" width=\"194\" height=\"16\" rx=\"8\" fill=\"#3A6FFF\"/>\n<g class=\"sc-ev\" style=\"animation-delay:1.9s\"><rect x=\"936\" y=\"392\" width=\"64\" height=\"32\" rx=\"16\" fill=\"#3A6FFF\" fill-opacity=\"0.12\"/>\n<text x=\"968\" y=\"413\" font-family=\"Pretendard-ExtraBold, Pretendard\" font-weight=\"800\" font-size=\"16\" letter-spacing=\"-0.32\" fill=\"#3A6FFF\" text-anchor=\"middle\">근거</text></g>\n</g>\n</svg>",
+} as const;
+
+export type MotionKey = keyof typeof MOTION_SVG;

diff --git a/app/landing.css b/app/landing.css
@@ -308,20 +308,53 @@
   /* 리포트 이미지: 그림자·박스 없이 플랫하게(이미지 그림자 여백은 크롭으로 제거됨) */
   .hr-media{position:relative;width:100%;max-width:700px;margin-inline:auto}
   .hr-img{display:block;width:100%;height:auto}
-  /* 리포트 4종 도식 모션(ReportDiagram, 11/26) — 화면에 들어오면(.play) 6초 주기로 반복, 그 전에는 첫 장면에서 멈춤. 움직임 줄이기(.still)는 완성된 모습.
-     01 회색 줄이 왼쪽부터 차례로 써짐(rd-w) · 02 파란 원 그래프가 그려지고 막대가 차오름(rd-arc·rd-bar) · 03 지원자 육각형은 SVG <animate>(ReportDiagram이 시작)
-     · 04 강점 엄지는 들썩, 약점 X는 좌우로 흔들림(rd-up·rd-no) */
+  /* 모션 도식(MotionDiagram, 11/26) — AI 면접 리포트 4종 + AI 역량검사 진행 방식 3장. 화면에 들어오면(.play) 반복, 그 전에는 첫 장면에서 멈춤.
+     움직임 줄이기(.still)는 완성된 모습(과정 평가는 2단계가 켜진 원래 그림). 요소 표시는 components/motionDiagrams.ts */
   .rd svg{display:block;width:100%;height:auto}
+  .rd.still *{animation:none!important}
+  /* 리포트 01 줄 써짐(rd-w) · 02 원 그래프(rd-arc)·막대(rd-bar) · 04 두 카드 동시 등장(rd-card) 뒤 줄 채움, 엄지 들썩(rd-up)·X 흔들림(rd-no) — 6초 */
   .rd .rd-w,.rd .rd-bar{transform-box:fill-box;transform-origin:left center;animation:rdWrite 6s ease-in-out infinite both}
   .rd .rd-arc{stroke-dasharray:100;animation:rdArc 6s ease-in-out infinite both}
-  .rd .rd-up,.rd .rd-no{transform-box:fill-box;transform-origin:center;animation:rdUp 4s ease-in-out infinite both}
-  .rd .rd-no{animation-name:rdNo;animation-delay:.6s}
-  .rd:not(.play) .rd-w,.rd:not(.play) .rd-bar,.rd:not(.play) .rd-arc,.rd:not(.play) .rd-up,.rd:not(.play) .rd-no{animation-play-state:paused}
-  .rd.still .rd-w,.rd.still .rd-bar,.rd.still .rd-arc,.rd.still .rd-up,.rd.still .rd-no{animation:none}
+  .rd .rd-card{animation:rdCard 6s cubic-bezier(.2,.8,.2,1) infinite both}
+  .rd .rd-up,.rd .rd-no{transform-box:fill-box;transform-origin:center;animation:rdUp 6s ease-in-out 1.2s infinite both}
+  .rd .rd-no{animation-name:rdNo}
   @keyframes rdWrite{0%{transform:scaleX(0)}14%,80%{transform:scaleX(1)}92%,100%{transform:scaleX(0)}}
   @keyframes rdArc{0%{stroke-dashoffset:100}25%,80%{stroke-dashoffset:0}92%,100%{stroke-dashoffset:100}}
-  @keyframes rdUp{0%,60%,100%{transform:none}8%{transform:rotate(-14deg) scale(1.18)}16%{transform:rotate(6deg) scale(1.06)}24%{transform:none}}
-  @keyframes rdNo{0%,60%,100%{transform:none}8%{transform:rotate(-9deg)}14%{transform:rotate(9deg)}20%{transform:rotate(-5deg)}26%{transform:none}}
+  @keyframes rdCard{0%{opacity:0;transform:translateY(22px)}10%,84%{opacity:1;transform:none}94%,100%{opacity:0;transform:translateY(22px)}}
+  @keyframes rdUp{0%,40%,100%{transform:none}6%{transform:rotate(-14deg) scale(1.18)}12%{transform:rotate(6deg) scale(1.06)}18%{transform:none}}
+  @keyframes rdNo{0%,40%,100%{transform:none}6%{transform:rotate(-9deg)}10%{transform:rotate(9deg)}14%{transform:rotate(-5deg)}18%{transform:none}}
+  /* AI 역량검사 과정 평가 — 작업 리플레이: 단계가 2초씩 차례로 켜지고(pa-on), 진행선·재생 막대가 그 단계까지 나아가고, 지나간 점이 켜짐 — 8초 */
+  .rd .pa-on{opacity:0;animation:paOn 8s ease-in-out infinite both}
+  .rd .pa-line{transform-box:fill-box;transform-origin:left center;animation:paLine 8s ease-in-out infinite both}
+  .rd .pa-bar{transform-box:fill-box;transform-origin:left center;animation:paBar 8s ease-in-out infinite both}
+  .rd .pa-d1,.rd .pa-d2,.rd .pa-d3,.rd .pa-d4{opacity:0;animation:8s linear infinite both}
+  .rd .pa-d1{animation-name:paD1}.rd .pa-d2{animation-name:paD2}.rd .pa-d3{animation-name:paD3}.rd .pa-d4{animation-name:paD4}
+  .rd.still .pa-k2,.rd.still .pa-d1,.rd.still .pa-d2{opacity:1}
+  .rd.still .pa-line{transform:scaleX(.3333)}
+  .rd.still .pa-bar{transform:scaleX(.3764)}
+  @keyframes paOn{0%,2%{opacity:0}6%,24%{opacity:1}28%,100%{opacity:0}}
+  @keyframes paLine{0%,6%{transform:scaleX(0)}25%,31%{transform:scaleX(.3333)}50%,56%{transform:scaleX(.6667)}75%,92%{transform:scaleX(1)}100%{transform:scaleX(0)}}
+  @keyframes paBar{0%,6%{transform:scaleX(.0646)}25%,31%{transform:scaleX(.3764)}50%,56%{transform:scaleX(.6882)}75%,92%{transform:scaleX(1)}100%{transform:scaleX(.0646)}}
+  @keyframes paD1{0%,2%{opacity:0}5%,92%{opacity:1}97%,100%{opacity:0}}
+  @keyframes paD2{0%,26%{opacity:0}30%,92%{opacity:1}97%,100%{opacity:0}}
+  @keyframes paD3{0%,51%{opacity:0}55%,92%{opacity:1}97%,100%{opacity:0}}
+  @keyframes paD4{0%,76%{opacity:0}80%,92%{opacity:1}97%,100%{opacity:0}}
+  /* AI 역량검사 AI 인터뷰 — 질문·답 말풍선이 차례로 오가고(db-b1~4), 제출 코드의 해당 줄이 숨 쉬듯 강조(db-hl) — 8초 */
+  .rd .db-b1,.rd .db-b2,.rd .db-b3,.rd .db-b4{animation:8s ease-out infinite both}
+  .rd .db-b1{animation-name:db1}.rd .db-b2{animation-name:db2}.rd .db-b3{animation-name:db3}.rd .db-b4{animation-name:db4}
+  .rd .db-hl{animation:dbHl 2.4s ease-in-out infinite}
+  @keyframes db1{0%{opacity:0;transform:translateY(10px)}6%,88%{opacity:1;transform:none}95%,100%{opacity:0}}
+  @keyframes db2{0%,16%{opacity:0;transform:translateY(10px)}22%,88%{opacity:1;transform:none}95%,100%{opacity:0}}
+  @keyframes db3{0%,32%{opacity:0;transform:translateY(10px)}38%,88%{opacity:1;transform:none}95%,100%{opacity:0}}
+  @keyframes db4{0%,48%{opacity:0;transform:translateY(10px)}54%,88%{opacity:1;transform:none}95%,100%{opacity:0}}
+  @keyframes dbHl{0%,100%{opacity:1}50%{opacity:.45}}
+  /* AI 역량검사 평가와 리포트 — '추천' 원 그래프(sc-arc), 항목별 점수 막대(sc-bar), '근거' 칩(sc-ev), 근거 줄(sc-evl)이 차례로 — 7초 */
+  .rd .sc-arc{stroke-dasharray:100;animation:rdArc 7s ease-in-out infinite both}
+  .rd .sc-bar,.rd .sc-evl{transform-box:fill-box;transform-origin:left center;animation:rdWrite 7s ease-in-out infinite both}
+  .rd .sc-ev{transform-box:fill-box;transform-origin:center;animation:scEv 7s ease-out infinite both}
+  @keyframes scEv{0%{opacity:0;transform:scale(.6)}10%,80%{opacity:1;transform:none}92%,100%{opacity:0}}
+  /* 화면에 들어오기 전 멈춤 — 위 animation 선언이 재생 상태를 덮어쓰지 않게 맨 뒤에 둔다 */
+  .rd:not(.play) *{animation-play-state:paused}
   /* 리포트 도식 카드(샘플: 역량평가 레이더) — 참고 스타일(soft 카드 + 추상 SVG) */
   .sch{background:var(--soft);border:1px solid var(--line);border-radius:20px;padding:22px 24px 10px;width:100%;max-width:560px;margin-inline:auto}
   .sch-head{display:flex;align-items:center;justify-content:space-between;margin-bottom:2px}

diff --git a/app/ai-assessment/page.tsx b/app/ai-assessment/page.tsx
@@ -3,6 +3,7 @@ import "../landing.css"; // 홈과 같은 섹션 스타일(SSOT) — 카드·단
 import ProductHero from "@/components/ProductHero";
 import ClientLogos from "@/components/ClientLogos";
 import AssistDemo from "@/components/AssistDemo";
+import MotionDiagram from "@/components/MotionDiagram";
 import StepFlow from "@/components/StepFlow";
 import PairGrid from "@/components/PairGrid";
 import SecuritySection from "@/components/SecuritySection";
@@ -41,7 +42,7 @@ export function generateMetadata() {
 const START = [
   { title: "채용공고 입력", body: <>채용공고를 넣거나<br />문제 은행 템플릿을 고릅니다.</>, img: "/assessment-step-jd.webp", alt: "채용공고 입력 화면: 직무 기술서를 붙여 넣는 칸" },
   { title: "AI가 과제 생성", body: <>AI가 과제와 채점 기준을 만들고<br />스스로 검증합니다.</>, img: "/assessment-step-task.webp", alt: "문제 만들기 화면: 개발 과제, 업무 과제, 코딩 테스트 중 과제 유형 선택" },
-  { title: "확인 후 게시", body: <>채용팀이 확인하고 게시하면<br />지원자에게 링크를 보냅니다.</>, img: "/assessment-step-review.webp", alt: "평가 기준 화면: 역량별 1점부터 단계별 기준 문장" },
+  { title: "확인 후 게시", body: <>채용팀이 확인하고 게시하면<br />지원자에게 링크를 보냅니다.</>, img: "/assessment-step-publish.webp", alt: "과제 확인 화면: 과제 설명·채점 기준·응시 환경을 확인하고 게시한 뒤, 공개 링크나 메일로 지원자에게 보내는 모습" }, // 11/26 "이미지가 텍스트와 맞지 않아" — 채점 기준 화면에서 바꿈
 ];
 
 // 02 · 문제 — 어두운 띠(카드형, 11/26 "이게 더 잘 읽힌다"): 카드 하나에 문제(x)·해결(체크) 한 줄씩, 카드 세 장(components/PairGrid.tsx).
@@ -164,7 +165,7 @@ export default function AiAssessmentPage() {
                 </ul>
               </div>
               <div className="hr-media">
-                <img className="hr-img" src="/diagram-process.webp" alt="과정 평가 도식: 작업 기록 화면에 AI에게 지시, AI가 코드 변경, 직접 수정, 테스트 실행 네 단계를 원으로 잇고 아래에 작업 리플레이" width={1080} height={570} loading="lazy" />
+                <MotionDiagram name="process" label="과정 평가 도식: 작업 기록 화면에 AI에게 지시, AI가 코드 변경, 직접 수정, 테스트 실행 네 단계를 원으로 잇고 아래에 작업 리플레이" />
               </div>
             </div>
             <div className="how-row">
@@ -174,7 +175,7 @@ export default function AiAssessmentPage() {
                 <p>과제를 제출하면 AI 인터뷰가 이어집니다. AI가 결과에 대해 묻고, 지원자의 답으로 이해도를 평가합니다.</p>
               </div>
               <div className="hr-media">
-                <img className="hr-img" src="/diagram-debrief.webp" alt="AI 인터뷰 도식: 제출한 코드와, AI 질문과 지원자 답변이 말풍선으로 오가는 대화" width={1080} height={570} loading="lazy" />
+                <MotionDiagram name="debrief" label="AI 인터뷰 도식: 제출한 코드와, AI 질문과 지원자 답변이 말풍선으로 오가는 대화" />
               </div>
             </div>
             <div className="how-row">
@@ -189,7 +190,7 @@ export default function AiAssessmentPage() {
                 <p>채용팀은 항목마다 검토 완료나 이의를 표시하고, 정정한 평가를 공식 결과로 고를 수 있습니다. 원래 평가는 남습니다.</p>
               </div>
               <div className="hr-media">
-                <img className="hr-img" src="/diagram-scorecard.webp" alt="평가와 리포트 도식: AI 역량검사 리포트 화면에 AI 추천 등급과 항목별 점수, 근거" width={1080} height={570} loading="lazy" />
+                <MotionDiagram name="scorecard" label="평가와 리포트 도식: AI 역량검사 리포트 화면에 AI 추천 등급과 항목별 점수, 근거" />
               </div>
             </div>
           </div>

diff --git a/components/ReportRows.tsx b/components/ReportRows.tsx
@@ -1,10 +1,10 @@
 import type { ReactNode } from "react";
-import ReportDiagram from "./ReportDiagram";
-import type { ReportKey } from "./reportDiagrams";
+import MotionDiagram from "./MotionDiagram";
+import type { MotionKey } from "./motionDiagrams";
 
 // 리포트 4종(인터뷰 요약·종합평가·역량평가·강점·약점) — 홈·/ai-interview 공용(SSOT).
-// 스타일은 app/landing.css(.how-rows·.how-row). 도식은 페이지에 바로 넣는 SVG(ReportDiagram — 11/26 도식마다 모션 하나씩, 원본 _docs/홈페이지 개편/도식).
-const ROWS: { tag: string; title: string; body: ReactNode; svg: ReportKey; alt: string }[] = [
+// 스타일은 app/landing.css(.how-rows·.how-row). 도식은 페이지에 바로 넣는 SVG(MotionDiagram — 11/26 도식마다 모션 하나씩, 원본 _docs/홈페이지 개편/도식).
+const ROWS: { tag: string; title: string; body: ReactNode; svg: MotionKey; alt: string }[] = [
   { tag: "리포트 01", title: "인터뷰 요약", body: <>긴 영상을 다시 볼 필요 없이, 대화의 핵심만 자동 <strong>요약</strong>합니다.</>, svg: "interview", alt: "인터뷰 요약 도식: 면접 영상 옆에 요약이 한 줄씩 정리되는 모습" },
   { tag: "리포트 02", title: "종합평가", body: <>복잡한 점수 대신 <strong>등급</strong>으로, 후보자 판단 기준을 빠르게 확인합니다.</>, svg: "grade", alt: "종합 등급 도식: 원 그래프에 종합 등급 양호와 항목별 점수 막대" },
   { tag: "리포트 03", title: "역량평가", body: <><strong>핵심 역량</strong>의 강점과 약점을 차트로 한눈에 비교합니다.</>, svg: "competency", alt: "역량 평가 도식: 여섯 가지 역량에서 평균과 지원자를 비교한 육각형 차트" },
@@ -23,7 +23,7 @@ export default function ReportRows({ before }: { before?: ReactNode }) {
             <h3>{r.title}</h3>
             <p>{r.body}</p>
           </div>
-          <div className="hr-media"><ReportDiagram name={r.svg} label={r.alt} /></div>
+          <div className="hr-media"><MotionDiagram name={r.svg} label={r.alt} /></div>
         </div>
       ))}
     </div>

diff --git a/components/MotionDiagram.tsx b/components/MotionDiagram.tsx
@@ -1,12 +1,12 @@
 "use client";
 
 import { useEffect, useRef } from "react";
-import { REPORT_SVG, type ReportKey } from "./reportDiagrams";
+import { MOTION_SVG, type MotionKey } from "./motionDiagrams";
 
-// 리포트 4종 도식에 모션 하나씩(2026-11-26) — 01 회색 줄이 차례로 써짐, 02 파란 원 그래프·막대가 차오름, 03 지원자 육각형 모양이 바뀜,
-// 04 강점·약점 아이콘이 움직임. 화면에 들어오면(.play) 6초 주기로 반복하고, 그 전에는 첫 장면에서 멈춘다.
+// 모션 도식(2026-11-26) — AI 면접 리포트 4종(줄 써짐·원 그래프/막대·육각형 모양 변화·강점·약점 카드 동시 등장)과
+// AI 역량검사 진행 방식 3장(과정 평가 리플레이·AI 인터뷰 대화·평가와 근거). 화면에 들어오면(.play) 반복하고, 그 전에는 첫 장면에서 멈춘다.
 // 움직임 줄이기 설정이면(.still) 완성된 모습 그대로. SVG를 페이지에 바로 넣어 글자는 사이트 글꼴(Pretendard)로 그린다. 스타일은 app/landing.css(.rd).
-export default function ReportDiagram({ name, label }: { name: ReportKey; label: string }) {
+export default function MotionDiagram({ name, label }: { name: MotionKey; label: string }) {
   const ref = useRef<HTMLDivElement>(null);
 
   useEffect(() => {
@@ -26,5 +26,5 @@ export default function ReportDiagram({ name, label }: { name: ReportKey; label:
     return () => io.disconnect();
   }, []);
 
-  return <div ref={ref} className="rd" role="img" aria-label={label} dangerouslySetInnerHTML={{ __html: REPORT_SVG[name] }} />;
+  return <div ref={ref} className="rd" role="img" aria-label={label} dangerouslySetInnerHTML={{ __html: MOTION_SVG[name] }} />;
 }

diff --git a/CLAUDE.md b/CLAUDE.md
@@ -26,7 +26,7 @@ Supercoder AI 웹사이트 — **AIVIEW** 제품 랜딩 + 블로그/도입문의
   - `app/privacy`, `app/terms`, `app/terms-applicant` — 법적 페이지(서버). `app/not-found.tsx` — 404.
 - **공유 디자인 토큰·컴포넌트 CSS는 `app/globals.css` (SSOT).** `:root` 변수(`--blue`,`--ink`,`--soft`,`--r`,`--shadow` 등)·버튼(`.btn*`)·`.eyebrow`·GNB(`header`/`nav`)·푸터(`footer`)·모달(`.bro-*`)·챗봇(`.cbot*`)·법적 페이지(`.legal`)가 모두 여기. 루트 `layout.tsx`에서 1회 import. **공유 컴포넌트를 바꿀 땐 `app/globals.css`만 고치면 전 페이지가 함께 바뀐다.**
 - **페이지 고유 CSS는 라우트 폴더에 co-located** (`app/landing.css`, `app/apply/apply.css`, `app/blog/blog.css`, `app/blog/[id]/post.css`, `app/admin/admin.css`). 해당 page에서 import. 클래스는 전역 스코프(원본 정적 사이트와 동일 동작).
-- **공유 컴포넌트(`components/`):** `SiteHeader`(섹션 인지형 GNB·메뉴. '제품▾' 펼침 메뉴 항목은 `PRODUCTS` 배열 하나를 데스크톱·모바일이 함께 쓴다), `SiteFooter`, `Chatbot`(FAQ 챗봇), `HeroParticles`(canvas 입자 모션, 히어로·CTA 공용), `Analytics`·`UtmCapture`·`ViewCounter`. 모두 `layout.tsx`에 마운트되거나 page에서 사용. `"use client"`. 홈·제품 페이지가 같이 쓰는 섹션은 서버 컴포넌트 `PageHero`(홈 전용 다크 히어로, 강조어는 `HeroWord`)·`ProductHero`(제품 상세 페이지 히어로 — 밝은 바탕 + 오른쪽 제품 이미지 `public/hero-*.webp`, 두 제품 모두 밝은 바탕 + 같은 어두운 제품 화면(#181818 계열, 2026-11-25 AI 면접도 AI 역량검사 색으로 맞춤). AI 역량검사는 실제 응시 화면 캡처를 가공한 것, AI 면접은 캡처가 없어 같은 색으로 캡처 배치대로 그린 것 — 둘 다 `_docs/홈페이지 개편/도식/캡처가공/make.mjs`. 화면 그림은 `HeroStage`(바탕·점선·레이어 — ProductFlow 썸네일과 공용). `layers`·`lines`를 주면 바탕 위에 투명 레이어를 겹쳐 레이어마다 움직인다 — AI 역량검사는 `public/hero-assessment-*.webp`, AI 면접은 `public/hero-interview-*.webp`(화면·AI 면접관 카드·리포트·칩, 캔버스 600×448 — `size`로 맞춤). 레이어에 `orb`를 주면 그 레이어와 함께 움직이는 오브를 겹친다.)·`LiveOrb`(움직이는 AI 면접관 오브, 클라이언트 — 제품과 같은 `lib/interviewerOrb.js`를 dynamic import해 이미지 속 정지 오브 자리를 바탕색으로 덮고 말하기 모드로 그린다. 원본은 `_docs/홈페이지 개편/AI면접관_orb/`)·`OrbImage`(이미지 + 오브 겹치기 — AI 면접 도식 `diagram-question`을 쓰는 홈 제품 카드·진행 방식·두 제품 비교가 함께 쓴다, 자리는 `lib/products.ts`의 `ORB_QUESTION`)·`AskDemo`(AI 면접 '면접 진행' 그림 — 히어로 AI 면접관 카드와 같은 모양을 HTML로, 질문 → 꼬리질문 + `LiveOrb`)·`AssistDemo`(AI 역량검사 '과제 화면' 그림 — 히어로 AI 어시스턴트 카드를 HTML로, 지시 → AI 답) — 둘 다 `DemoPanel`(연한 판 + 화면에 들어오면 `.ad-1` → `.ad-2`가 차례로 나타나는 9초 반복 모션)·`StepFlow`(3단계 카드 줄, 단계마다 `img`를 주면 카드 아래에 실제 화면을 꽉 차게 붙인다 — `.pstep.has-shot`)·`TeamSection`(채용팀 기능, 두 제품 공용)·`ClientLogos`(도입사 로고 마퀴)·`ReportRows`(리포트 4종 — 도식은 이미지가 아니라 페이지에 바로 넣는 SVG `ReportDiagram`+`components/reportDiagrams.ts`, 화면에 들어오면 도식마다 모션 하나씩: 줄 써짐·원 그래프/막대·육각형 모양 변화·아이콘, 11/26)·`IntegritySection`(부정행위 감지 — 왼쪽 감지 항목 6개, 오른쪽 HTML '감지 내역' 예시 카드, 홈은 `withLink`)·`SecuritySection`(좌우 분할 — 왼쪽 제목·ISO 인증 마크, 오른쪽 보안 항목 목록)·`FaqList`(FAQ 목록)·`SoftCta`(중간 안내 한 줄+버튼 — 홈 서비스소개서 안내)·`TypeTabs`(유형 섹션 — 면접 유형·과제 유형을 탭으로 고르기, 아이콘 대신 도입 단계 이미지와 같은 결의 화면 `public/type-*.webp`, 11/26)·`ProductFlow`(제품 페이지 끝 다른 제품 안내 — 함께 쓰는 순서: AI 면접 → AI 역량검사 → 대면 면접 세 단계, 1·2단계 그림은 각 제품 히어로 화면 `HeroStage`, 3단계는 같은 구성의 '핵심 후보' 화면(`public/f2f-*.webp`, 가상 이름 + 사용자가 준 목업 인물 사진), 카드 사이 흰 원 꺾쇠, 상대 제품 카드에만 버튼, 11/26)·`FinalCta`(마지막 CTA, `points`를 주면 버튼 아래 차별점 띠 — AI 역량검사) — 스타일은 `app/landing.css`. 제품 이름·주소·한 줄 설명·도식 썸네일은 `lib/products.ts`(GNB·푸터·홈 카드·ProductFlow 공용 — 단계 설명 `when`, 히어로 화면 데이터 `HERO`(바탕·레이어·점선·크기, ProductHero와 ProductFlow 썸네일이 같이 씀)도 여기), ISO 인증 목록은 `lib/certs.ts`(푸터·보안 섹션 공용). 제품 문구의 사실 근거·금지 표현은 `_docs/홈페이지 개편/AI면접_AI역량검사_차이_소개자료.md`. ⚠ `CostCalculator.tsx`는 **어디에도 마운트돼 있지 않다**(미사용). 소개서 리드는 옛 `BrochureModal`이 아니라 `app/brochure/` 라우트가 담당한다.
+- **공유 컴포넌트(`components/`):** `SiteHeader`(섹션 인지형 GNB·메뉴. '제품▾' 펼침 메뉴 항목은 `PRODUCTS` 배열 하나를 데스크톱·모바일이 함께 쓴다), `SiteFooter`, `Chatbot`(FAQ 챗봇), `HeroParticles`(canvas 입자 모션, 히어로·CTA 공용), `Analytics`·`UtmCapture`·`ViewCounter`. 모두 `layout.tsx`에 마운트되거나 page에서 사용. `"use client"`. 홈·제품 페이지가 같이 쓰는 섹션은 서버 컴포넌트 `PageHero`(홈 전용 다크 히어로, 강조어는 `HeroWord`)·`ProductHero`(제품 상세 페이지 히어로 — 밝은 바탕 + 오른쪽 제품 이미지 `public/hero-*.webp`, 두 제품 모두 밝은 바탕 + 같은 어두운 제품 화면(#181818 계열, 2026-11-25 AI 면접도 AI 역량검사 색으로 맞춤). AI 역량검사는 실제 응시 화면 캡처를 가공한 것, AI 면접은 캡처가 없어 같은 색으로 캡처 배치대로 그린 것 — 둘 다 `_docs/홈페이지 개편/도식/캡처가공/make.mjs`. 화면 그림은 `HeroStage`(바탕·점선·레이어 — ProductFlow 썸네일과 공용). `layers`·`lines`를 주면 바탕 위에 투명 레이어를 겹쳐 레이어마다 움직인다 — AI 역량검사는 `public/hero-assessment-*.webp`, AI 면접은 `public/hero-interview-*.webp`(화면·AI 면접관 카드·리포트·칩, 캔버스 600×448 — `size`로 맞춤). 레이어에 `orb`를 주면 그 레이어와 함께 움직이는 오브를 겹친다.)·`LiveOrb`(움직이는 AI 면접관 오브, 클라이언트 — 제품과 같은 `lib/interviewerOrb.js`를 dynamic import해 이미지 속 정지 오브 자리를 바탕색으로 덮고 말하기 모드로 그린다. 원본은 `_docs/홈페이지 개편/AI면접관_orb/`)·`OrbImage`(이미지 + 오브 겹치기 — AI 면접 도식 `diagram-question`을 쓰는 홈 제품 카드·진행 방식·두 제품 비교가 함께 쓴다, 자리는 `lib/products.ts`의 `ORB_QUESTION`)·`AskDemo`(AI 면접 '면접 진행' 그림 — 히어로 AI 면접관 카드와 같은 모양을 HTML로, 질문 → 꼬리질문 + `LiveOrb`)·`AssistDemo`(AI 역량검사 '과제 화면' 그림 — 히어로 AI 어시스턴트 카드를 HTML로, 지시 → AI 답) — 둘 다 `DemoPanel`(연한 판 + 화면에 들어오면 `.ad-1` → `.ad-2`가 차례로 나타나는 9초 반복 모션)·`StepFlow`(3단계 카드 줄, 단계마다 `img`를 주면 카드 아래에 실제 화면을 꽉 차게 붙인다 — `.pstep.has-shot`)·`TeamSection`(채용팀 기능, 두 제품 공용)·`ClientLogos`(도입사 로고 마퀴)·`ReportRows`(리포트 4종)·`MotionDiagram`(모션 도식 — 이미지가 아니라 페이지에 바로 넣는 SVG, `components/motionDiagrams.ts`. AI 면접 리포트 4종(줄 써짐·원 그래프/막대·육각형 모양 변화·강점·약점 카드 동시 등장)과 AI 역량검사 진행 방식 3장(과정 평가 리플레이·AI 인터뷰 대화·평가와 근거). 다시 뽑기는 `_docs/홈페이지 개편/도식/모션도식_만들기_make-motion.py`, 11/26)·`IntegritySection`(부정행위 감지 — 왼쪽 감지 항목 6개, 오른쪽 HTML '감지 내역' 예시 카드, 홈은 `withLink`)·`SecuritySection`(좌우 분할 — 왼쪽 제목·ISO 인증 마크, 오른쪽 보안 항목 목록)·`FaqList`(FAQ 목록)·`SoftCta`(중간 안내 한 줄+버튼 — 홈 서비스소개서 안내)·`TypeTabs`(유형 섹션 — 면접 유형·과제 유형을 탭으로 고르기, 아이콘 대신 도입 단계 이미지와 같은 결의 화면 `public/type-*.webp`, 11/26)·`ProductFlow`(제품 페이지 끝 다른 제품 안내 — 함께 쓰는 순서: AI 면접 → AI 역량검사 → 대면 면접 세 단계, 1·2단계 그림은 각 제품 히어로 화면 `HeroStage`, 3단계는 같은 구성의 '핵심 후보' 화면(`public/f2f-*.webp`, 가상 이름 + 사용자가 준 목업 인물 사진), 카드 사이 흰 원 꺾쇠, 상대 제품 카드에만 버튼, 11/26)·`FinalCta`(마지막 CTA, `points`를 주면 버튼 아래 차별점 띠 — AI 역량검사) — 스타일은 `app/landing.css`. 제품 이름·주소·한 줄 설명·도식 썸네일은 `lib/products.ts`(GNB·푸터·홈 카드·ProductFlow 공용 — 단계 설명 `when`, 히어로 화면 데이터 `HERO`(바탕·레이어·점선·크기, ProductHero와 ProductFlow 썸네일이 같이 씀)도 여기), ISO 인증 목록은 `lib/certs.ts`(푸터·보안 섹션 공용). 제품 문구의 사실 근거·금지 표현은 `_docs/홈페이지 개편/AI면접_AI역량검사_차이_소개자료.md`. ⚠ `CostCalculator.tsx`는 **어디에도 마운트돼 있지 않다**(미사용). 소개서 리드는 옛 `BrochureModal`이 아니라 `app/brochure/` 라우트가 담당한다.
 - **섹션 = 랜딩 구조 (정의된 이름·번호·id).** `app/page.tsx`는 번호 매겨진 섹션 스택이다. 정식 목록(2026-11 개편): 01 히어로(`#hero`), 02 도입사(`#clients`), 03 문제·FLOOD(`#flood`), 04 해결·제품 2종(`#products`, 옛 VALUE 자리), 05 역할·ROLE(`#role`, 깔때기 SVG), 06 작동 방식·리포트 4종+도입 3단계(`#how`), 07 부정행위 감지(`#integrity`), 08 보안(`#security`), 09 성과·PROOF(`#proof`), 10 후기(`#voices`), 11 FAQ(`#faq`), 12 마지막 CTA(`#final`). 배경은 흰색↔연한 블루가 번갈아 오도록 둔다(공용 섹션 틀 `.band`/`.band.soft`). GNB는 섹션 앵커를 쓰지 않는다 — 메뉴는 제품▾(`/ai-interview`·`/ai-assessment`)·블로그·서비스소개서·이벤트(2026-11-24). 부정행위 감지·보안은 메뉴가 아니라 홈·제품 페이지 본문에서 보여준다.
 - **섹션 인지형 GNB:** `[data-nav="dark"]` 섹션(히어로·FINAL) 위에선 헤더 반전(흰 로고). 색 전환 클래스(`header.nav-invert`/`.nav-solid`)는 `globals.css`(SSOT), 감지 로직은 `SiteHeader.tsx`의 `syncHeader`.
 - **폰트·아이콘은 자체 호스팅 서브셋(2026-08-10 성능 최적화):** `layout.tsx`가 `pretendard.css`(woff2 청크만 jsdelivr)와 `fontawesome.css`를 import한다. 아이콘은 `<i className="fa-...">`로 쓰되, **`app/fontawesome.css`에 정의된 아이콘만 쓸 수 있다** — `public/fonts/`의 woff2도 pyftsubset으로 잘라낸 상태라 목록에 없는 이름을 쓰면 버튼은 동작해도 글리프가 렌더되지 않는다(2026-08-21 `fa-flask` 사례). 새 아이콘이 꼭 필요하면 CSS 룰 추가 + 폰트 재서브셋이 함께 필요하다. Supabase는 `@supabase/supabase-js`(npm).
